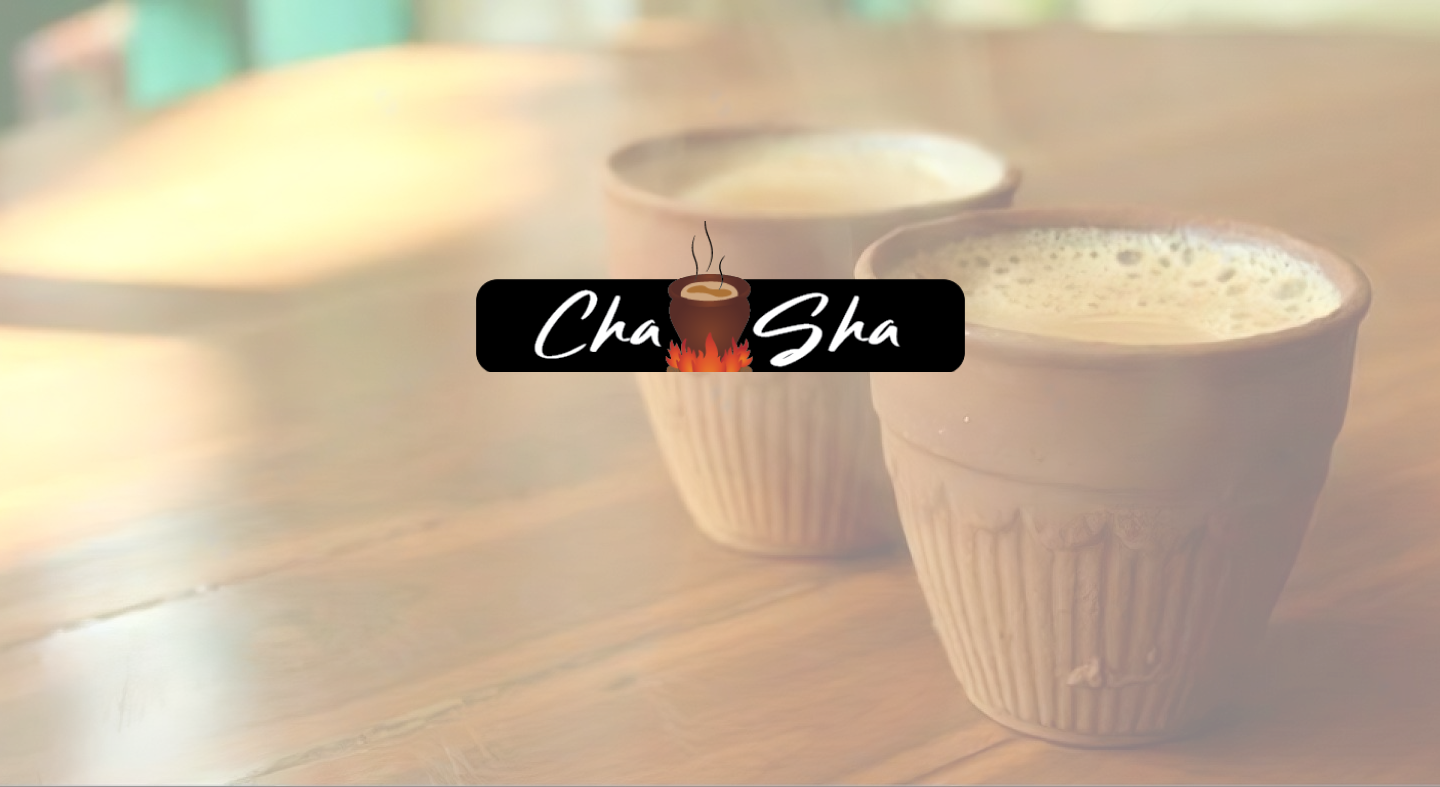
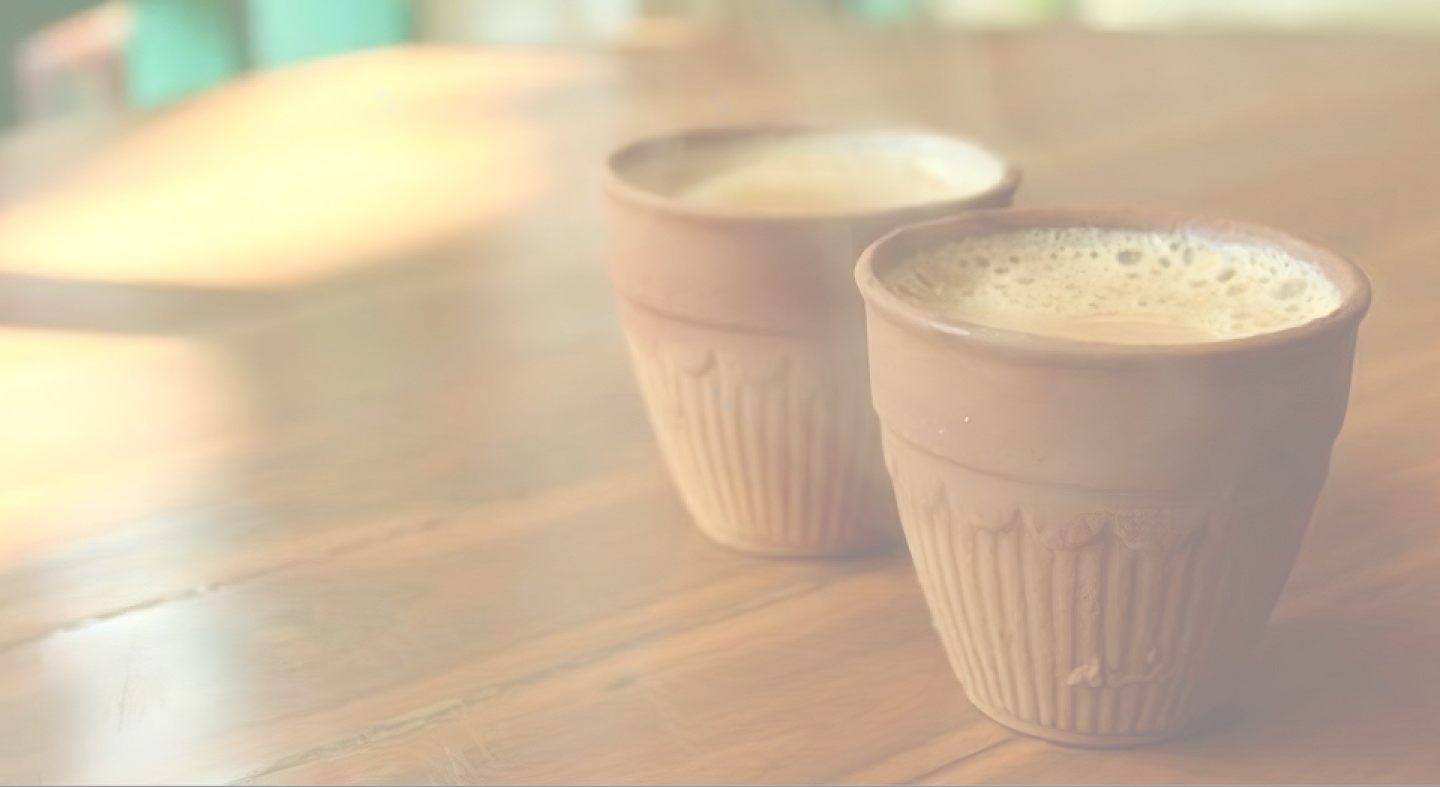
made changes in home section

Changed region(s): [[0.3125, 0.305, 0.6875, 0.4879]]

diff --git a/index.html b/index.html
@@ -31,6 +31,10 @@
     </div>
     <!-- Landing section -->
     <div id="homepageImage">
+        <img src="Final_logo-4.png" style="position:absolute;
+        left:34%;
+        top:30%;
+        max-width: 40%;" />
         <img src="landingpage.png" id="landingPage" />
     </div>
 
